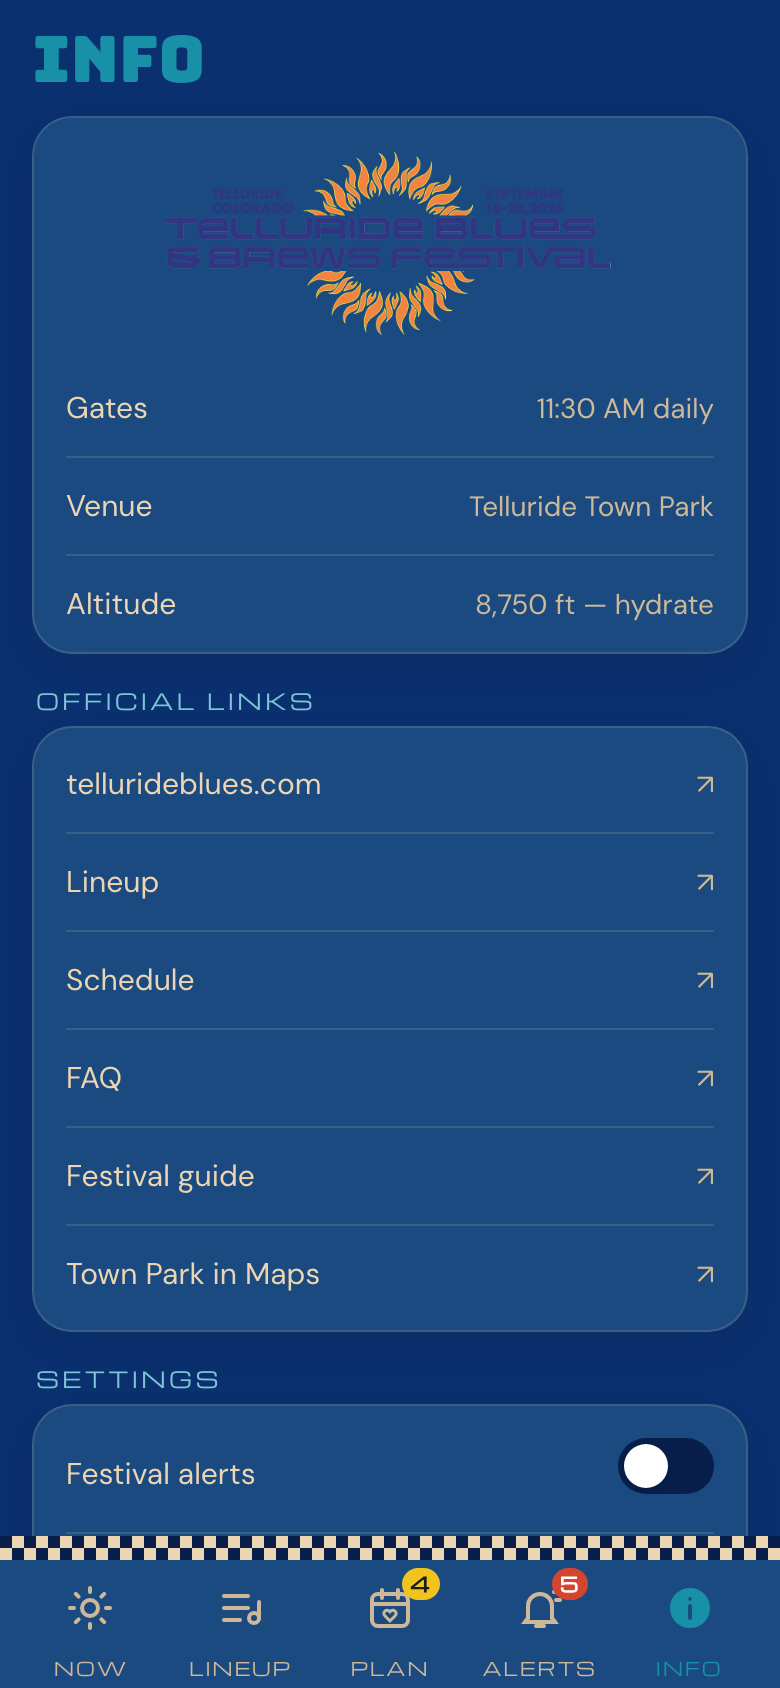
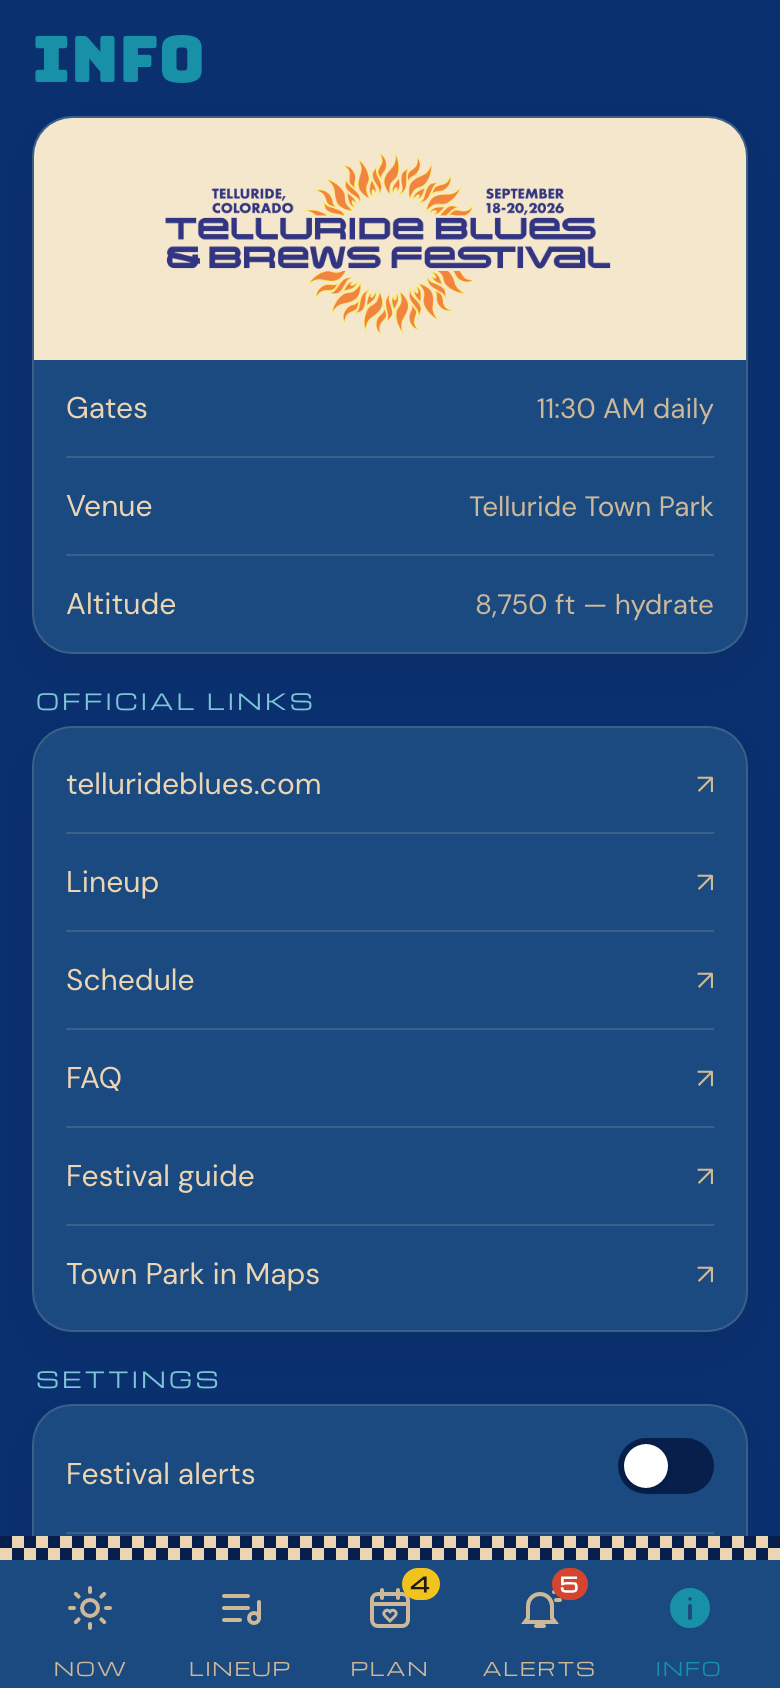
fix(info): dates lockup on a fixed light header for dark-mode legibility

Changed region(s): [[0.0308, 0.0616, 0.9538, 0.2156]]

diff --git a/apps/festival/src/features/info/InfoScreen.tsx b/apps/festival/src/features/info/InfoScreen.tsx
@@ -48,7 +48,7 @@ export function InfoScreen() {
     <div className="pt-3">
       <h1 className="font-display text-[32px] leading-9 text-structure-2">Info</h1>
       <Card padded={false} className="mt-2.5 overflow-hidden">
-        <div className="bg-night px-4 pb-2.5 pt-3.5 text-center"><img src={asset("/art/dates.webp")} alt={`September ${Number(first.date.slice(8))}–${Number(last.date.slice(8))}, ${festival.year}`} className="mx-auto w-[80%]" /></div>
+        <div className="bg-paper-light px-4 pb-2.5 pt-3.5 text-center"><img src={asset("/art/dates.webp")} alt={`September ${Number(first.date.slice(8))}–${Number(last.date.slice(8))}, ${festival.year}`} className="mx-auto w-[80%]" /></div>
         <div className="px-4">
           <Row label="Gates">{formatTime(fromDenver(first.date, first.gatesOpen))} daily</Row>
           <Row label="Venue">{festival.venue}</Row>
